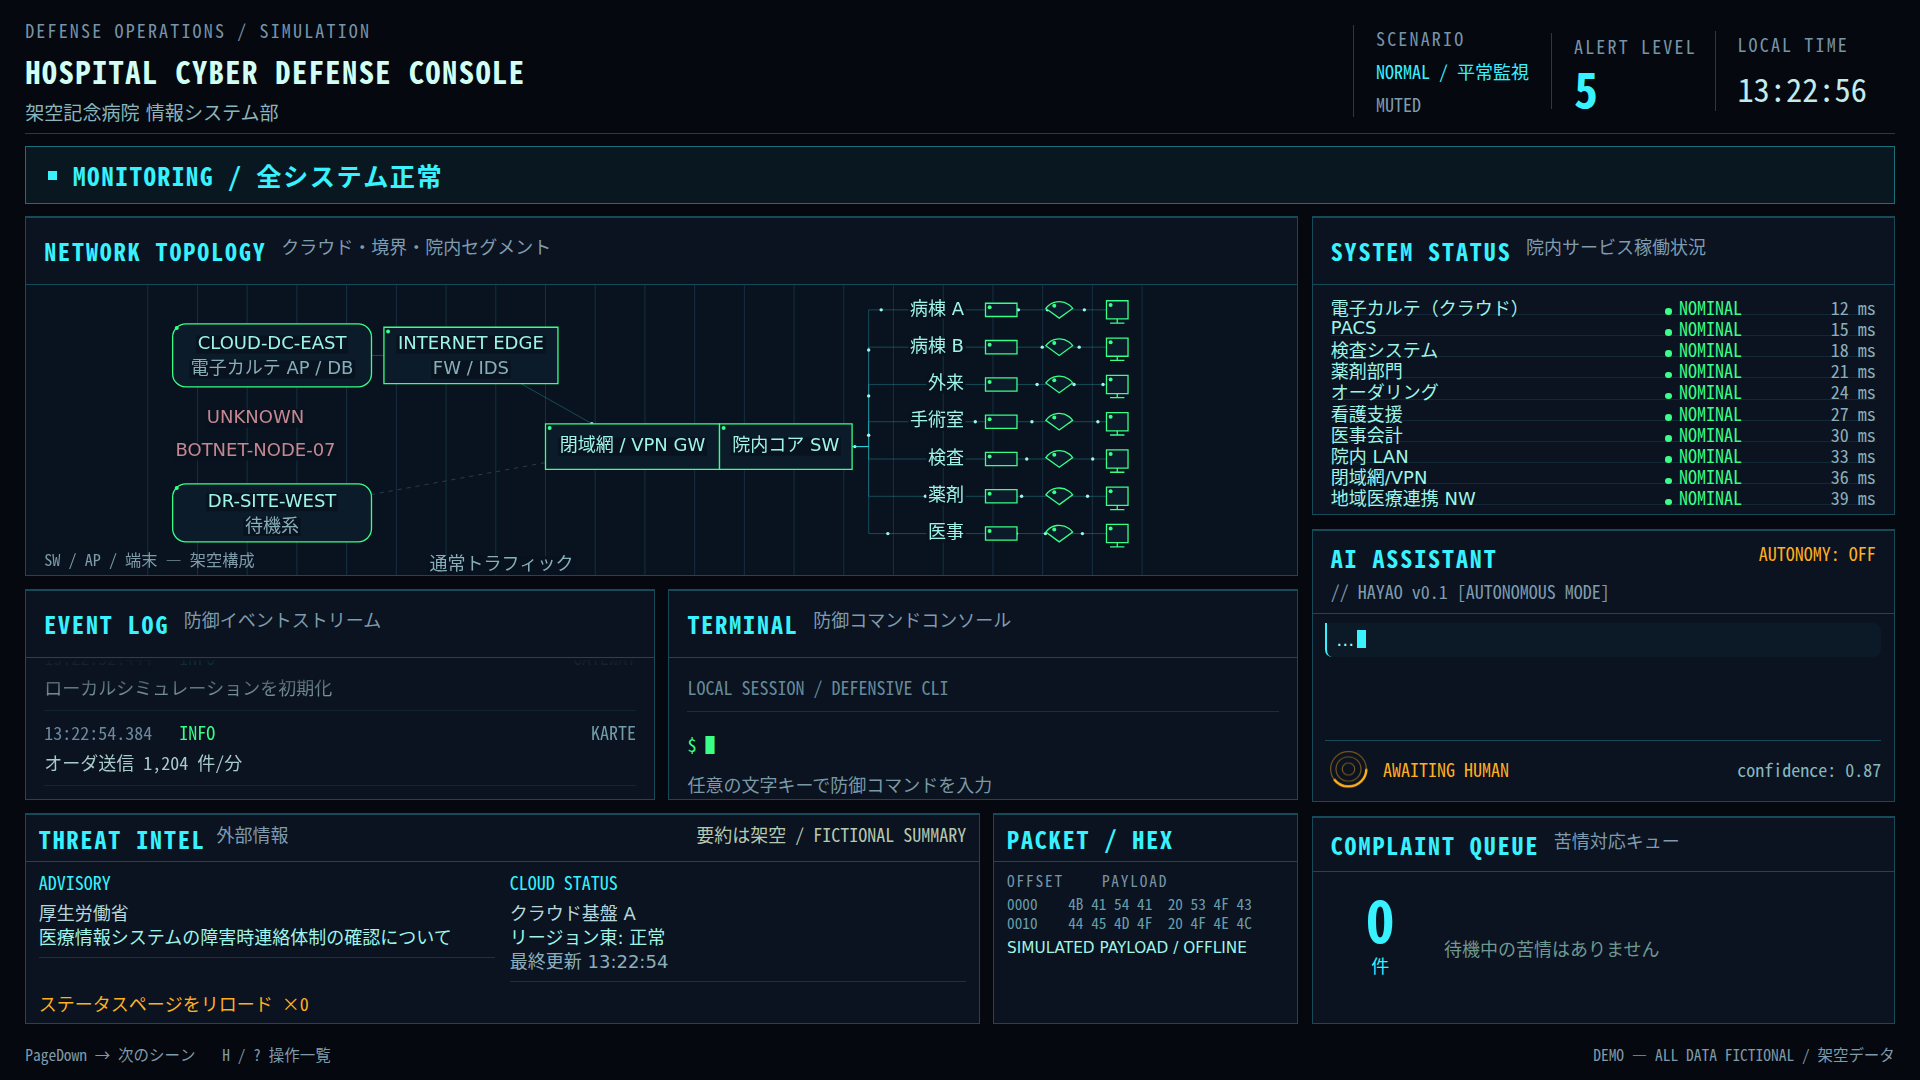
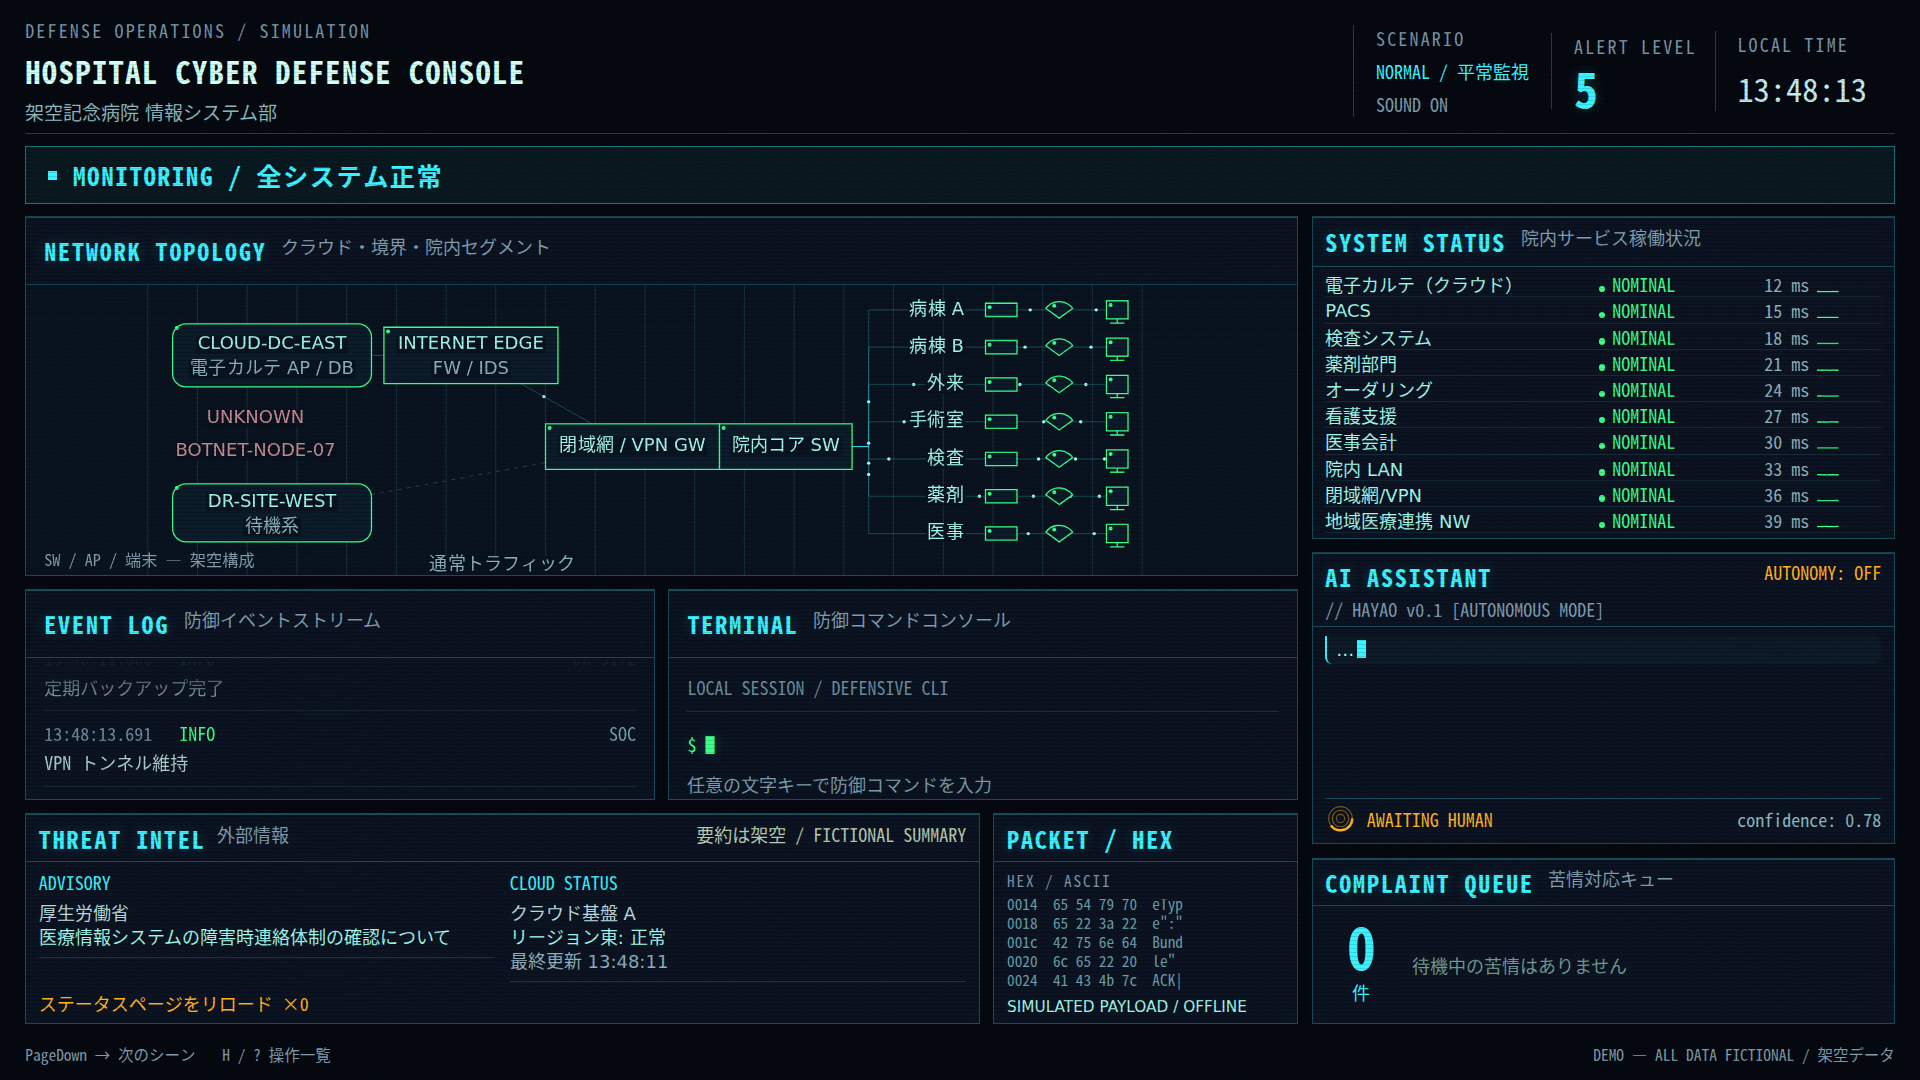
docs: document phase two controls and refresh screenshots

diff --git a/README.md b/README.md
@@ -2,7 +2,7 @@
 
 架空記念病院の「対処している感」を出す、LT 用サイバー防衛コンソール。実際の監視・攻撃・患者情報の処理は行いません。実行時は外部通信ゼロ、すべて架空データです。
 
-Phase 1 の MVP に AI アシスタント「ハヤオ」、NETWORK TOPOLOGY、THREAT INTEL を追加しています。仕様の正本は [SPEC.md](SPEC.md)、実装上の判断は [NOTES.md](NOTES.md) を参照してください。MIT ライセンス。
+Phase 2 の演出強化まで実装しています。AI アシスタント「ハヤオ」、構成図、外部情報フィードに加え、効果音・HEX・スパークライン・BACKSTAGE・自動再生が動作します。仕様の正本は [SPEC.md](SPEC.md)、実装上の判断は [NOTES.md](NOTES.md) を参照してください。MIT ライセンス。
 
 ## 起動
 
@@ -33,10 +33,10 @@ npm run typecheck && npm test && npm run build
 | 1〜6                 | NORMAL / DETECT / INCIDENT / COUNTER / RECOVERY / END  |
 | 印字キー・Space      | 防御側の架空コマンドを 3〜6 文字ずつ入力               |
 | Enter                | COUNTER では 8 秒間のターン演出、他は COMMAND ACCEPTED |
-| B                    | 静的 BACKSTAGE パネル                                  |
+| B                    | BACKSTAGE タイムラインと病院側の集計                   |
 | H / ?                | ヘルプ                                                 |
-| M                    | ミュート状態の表示切替（Phase 1 は音声なし）           |
-| A                    | 自動再生が Phase 2 対応予定である旨を表示              |
+| M                    | 効果音のミュート切替                                   |
+| A                    | 自動再生の ON / OFF（各シーン 20 秒）                  |
 | T                    | ハヤオが現在シーンの状況を 1 文で報告                  |
 | Ctrl+Shift+A         | ハヤオの AUTONOMY を ON / OFF                          |
 | R                    | BOOT へリセット                                        |
@@ -46,9 +46,9 @@ npm run typecheck && npm test && npm run build
 
 **COUNTER 中は印字キーがすべて TERMINAL 入力になります。** 機能操作は Ctrl+B / Ctrl+H / Ctrl+M / Ctrl+A / Ctrl+T / Ctrl+1〜6 等を使います。リセットは **Ctrl+Shift+R**、全画面は **Ctrl+Shift+F** です。AUTONOMY は全シーンで **Ctrl+Shift+A** です。矢印・PageUp / PageDown・Enter・Esc はそのまま使えます。クリッカーの「.」は印字入力です。
 
-ハヤオは用意した台本を 35 字/秒でタイプ表示し、シーンの変化や Enter 演出の各バー完了を実況します。最新 4 発話をスクロール表示し、保持するログは最大 20 件です。AUTONOMY OFF では「…」と `AWAITING HUMAN` を表示し、T を押しても沈黙します。ON に戻すと状況報告を再開し、BOOT リセットでも ON に戻ります。END で B を押すと、BACKSTAGE の横で復旧の裏側について告白します。LLM・外部通信・音声読み上げは使用しません。
+ハヤオは用意した台本を 35 字/秒でタイプ表示し、シーンの変化や Enter 演出の各バー完了を実況します。最新 4 発話を表示し、過去の発話は 2 行までの抜粋にして最新 3 件以上の表示領域を確保します（全文はホバーで表示）。保持するログは最大 20 件です。発話開始の短いビープは M のミュートと連動します。AUTONOMY OFF では「…」と `AWAITING HUMAN` を表示し、T を押しても沈黙します。ON に戻すと状況報告を再開し、BOOT リセットでも ON に戻ります。END で B を押すと、BACKSTAGE の横で復旧の裏側について告白します。LLM・外部通信・音声読み上げは使用しません。
 
-ターン演出中は入力を無視します。フラッシュとシェイクは最初の 300 ms の 1 回だけで、3 本のプログレスバー、境界シールドと DR 経路切替、ACCESS DENIED の後に RECOVERY へ移ります。復旧は約 8.5 秒かけて完了します。END へは手動で進めてください。BOOT は約 3.6 秒で起動ログを表示し、任意キーを待ちます。
+ターン演出中は入力を無視します。フラッシュとシェイクは最初の 300 ms の 1 回だけで、3 本のプログレスバー、境界シールドと DR 経路切替、ACCESS DENIED の後に RECOVERY へ移ります。復旧は約 8.5 秒かけて完了します。手動モードでは END へはキーで進めます。BOOT は約 3.6 秒で起動ログを表示し、任意キーを待ちます。
 
 誤リロード防止のため、ページを離れるとブラウザ標準の確認が出ます（ブラウザのジェスチャ要件に依存）。テスト時に不要なら `index.html?nobeforeunload` で開きます。非表示タブでは演出時計が停止し、戻った時点から再開します。
 
@@ -63,7 +63,13 @@ npm run typecheck && npm test && npm run build
 | 「ばばーんと復旧」                 | 自動で RECOVERY、復旧を待つ                  |
 | 「裏側では大変な作業が続いている」 | PageDown → END。B で紹介パネルとハヤオの告白 |
 
-音声、医療ネタの動的 HEX、スパークライン、詳細な BACKSTAGE タイムライン、自動再生、全パネル共通の seed クエリ、走査線等の仕上げは Phase 2 の対象で、この版には含めません（ハヤオの confidence のみ `?seed=123` で固定できます）。Phase 3 の包括的 E2E スイート・CI・公開設定も対象外です。
+効果音は小音量 ON で始まり、最初のキー入力で AudioContext を生成・resume します。キークリック、警告、ターン、復旧チャイム、ハヤオの発話ビープを Web Audio で合成します。M は再生中の音も消音します。音声ファイル・音声読み上げ・外部 API は使いません。
+
+A で自動再生を開始すると、各シーン 20 秒で進みます。COUNTER は自動でコマンドを入力してから Enter 演出（追加 8 秒）を実行し、END の 20 秒後に NORMAL へ戻って周回します。A で手動に戻り、R は BOOT へ戻して自動再生も解除します。自動再生中も手動ジャンプでき、移動先で 20 秒を数え直します。BOOT は任意キーで抜けてから A を押してください。BACKSTAGE は B で開きます。
+
+URL に `?seed=123` を付けると、タイピング・粒子と火花・confidence・HEX・スパークラインの乱数を固定できます。同じ入力と演出時間で再現でき、実時計は通常どおり進みます。無効な値は既定シードへ戻します。走査線・ノイズ・グローは静止効果で、カーソルは 1 Hz、全画面フラッシュは Enter の 1 回だけです。
+
+Phase 3 の包括的 E2E スイート・CI・公開設定は対象外です。
 
 ## 文言と構成図の編集
 
@@ -74,9 +80,10 @@ npm run typecheck && npm test && npm run build
 | `messages.ts`   | 共通ラベル、起動ログ、定常イベント                     |
 | `scenes.ts`     | シーン名・バナー、ターン演出のタイミング               |
 | `systems.ts`    | システム名・状態名                                     |
+| `packets.ts`    | 患者情報を含まない医療プロトコルの ASCII 断片          |
 | `commands.ts`   | 防御 CLI 台本と擬似出力（各 2〜5 行）                  |
 | `complaints.ts` | 苦情の種類と件数                                       |
-| `backstage.ts`  | BACKSTAGE 文言（リロード件数はフィードと共有）         |
+| `backstage.ts`  | BACKSTAGE 文言・固定タイムライン（集計は共有状態）     |
 | `assistant.ts`  | ハヤオの発話・表示文言（オチは `backstageConfession`） |
 | `help.ts`       | キー一覧と衝突ルール                                   |
 | `topology.ts`   | ノード・リンクの固定座標、名称、攻撃経路               |
@@ -86,29 +93,30 @@ npm run typecheck && npm test && npm run build
 
 NETWORK TOPOLOGY は固定座標の幾何学図形でクラウド・境界・院内の各セグメントを描きます。ノードのランプは SYSTEM STATUS と同じ判定を使い、Enter の隔離完了でシールド、切替完了で DR 経路が点灯します。1280×720 でもラベルは 13px 以上です。
 
-THREAT INTEL は HEX 帯と同居し、注意喚起とステータスページ風のフィードを各 30 件まで保持します。出典ラベルのみ `JPCERT/CC` / `IPA` / `厚生労働省` / `NISC` を使用し、本文は架空要約です。実在の日付・文書番号・URL・脆弱性識別子を追加しないでください。クラウドは架空の「クラウド基盤 A/B」のみです。INCIDENT 中は 2 秒ごとにリロード件数、5 秒ごとに最終更新が進み、BACKSTAGE も同じリロード件数を表示します。NORMAL または BOOT に戻ると件数・フィードを初期化します。
+THREAT INTEL は HEX 帯と同居し、注意喚起とステータスページ風のフィードを各 30 件まで保持します。出典ラベルのみ `JPCERT/CC` / `IPA` / `厚生労働省` / `NISC` を使用し、本文は架空要約です。実在の日付・文書番号・URL・脆弱性識別子を追加しないでください。クラウドは架空の「クラウド基盤 A/B」のみです。INCIDENT 中は `intel.ts` の `reloadInterval`（510 ms）ごとにリロード件数、5 秒ごとに最終更新が進みます。30 秒で約 ×58 となり、BACKSTAGE も同じ件数を表示します。苦情対応件数は復旧で解消したキュー件数と共有し、復旧完了時に ×29 となります。NORMAL または BOOT に戻ると件数・フィードを初期化します。
 
 ## スクリーンショットと確認
 
-任意の Playwright 撮影スクリプトを同梱しています。`npm run e2e` はビルド済み HTML を **file://、オフライン**で開き、全シーンを撮影します。シーン遷移、連打中の入力ロック、復旧、クリッカー、F5、720p のパネル境界と構成図ラベルの重なり、外部情報の更新・リロード件数共有、ハヤオの状況報告・沈黙・実況・告白、外部リクエスト 0 件、コンソールエラー 0 件も簡易確認します。約 70 秒かかります。
+任意の Playwright 撮影スクリプトを同梱しています。`npm run e2e` はビルド済み HTML を **file://、オフライン**で開き、全シーンを撮影します。シーン遷移、連打中の入力ロック、復旧、クリッカー、F5、720p のパネル境界と構成図ラベルの重なり、外部情報の更新・リロード件数共有、ハヤオの状況報告・沈黙・実況・告白、外部リクエスト 0 件、コンソールエラー 0 件も簡易確認します。約 70 秒かかります。`npm run e2e:phase2` は追加で実際の AudioContext の生成・resume・ミュート、ALERT 推移、×58 / ×29、最新 3 発話以上の表示、全乱数の seed 再現性、自動再生の周回を検証し、仮想時間 10 分の DOM・ヒープ上限を確認します。
 
 ```sh
 npx playwright install chromium
 npm run build
 npm run e2e
+npm run e2e:phase2
 ```
 
 既存の Chromium を使用する場合は `PLAYWRIGHT_CHROMIUM_EXECUTABLE_PATH=/path/to/chrome npm run e2e`。制限付き Linux 環境で必要な場合のみ `PLAYWRIGHT_NO_SANDBOX=1` を追加します。Linux のライブラリが不足する場合は通常の開発環境で `npx playwright install --with-deps chromium` を実行してください。
 
-出力先は `docs/screenshots/01-boot.png` 〜 `07-end.png`（1920×1080）、演出中・ヘルプ・静的 BACKSTAGE・720p・AUTONOMY OFF・720p の告白・障害中・DR 切替中の追加画像です。Playwright が使えなければ、ブラウザを 1920×1080、ズーム 100% にし、BOOT および 1〜6 各シーンを OS のスクリーンショット機能で保存してください。COUNTER からのジャンプは Ctrl+数字です。
+出力先は `docs/screenshots/01-boot.png` 〜 `07-end.png`（1920×1080）、演出中・ヘルプ・BACKSTAGE・720p・AUTONOMY OFF・720p の告白・障害中・DR 切替中の追加画像です。Phase 2 検証は ×58 / ×29 の BACKSTAGE を `15-phase2-backstage-{1920,1280}.png` に保存します。Playwright が使えなければ、ブラウザを 1920×1080、ズーム 100% にし、BOOT および 1〜6 各シーンを OS のスクリーンショット機能で保存してください。COUNTER からのジャンプは Ctrl+数字です。
 
 ## トラブル時
 
 - キーが効かない: 画面をクリックしてフォーカスを戻し、IME を英数にします。COUNTER では機能キーに Ctrl が必要です。演出中は約 8 秒待ちます。
 - 全画面にならない: F（COUNTER は Ctrl+Shift+F）を使用します。ブラウザ側で拒否される場合はブラウザ標準の全画面操作を使います。
-- 音が出ない: Phase 1 は視覚演出のみで、M は状態表示の切替です。
+- 音が出ない: 最初に画面へフォーカスしてキーを押し、SOUND ON 表示を確認します。M でミュートを切り替え、OS・ブラウザ・出力機器の音量も確認してください。ブラウザが音声を拒否した場合も画面は動作し、次のキー入力で resume を再試行します。非表示タブでは音も消音します。
 - レイアウト・日本語が崩れる: 100% ズーム、16:9 の解像度、日本語システムフォントを確認します。
 - ビルド済み HTML が動かない: コピーしたものが `dist/index.html` であることを確認し、現行 Chrome / Edge で開きます。開発用のルート `index.html` は直接開けません。
 - インストールのキャッシュエラー: `npm ci --cache /tmp/katakata-npm` のように書き込み可能なキャッシュを指定します。
 
-ログは最大 200 行、ターミナル履歴は 100 行、攻撃粒子は 80 個、火花は 96 個（通常粒子は各リンク 2 個）で打ち切ります。描画ループは 1 本です。自動再生での 10 分評価は Phase 2 の自動再生実装後の対象ですが、長時間の手動滞在でもデータを保持し続けない設計です。
+ログは最大 200 行、ターミナル履歴は 100 行、攻撃粒子は 80 個、火花は 96 個（通常粒子は各リンク 2 個）で打ち切ります。HEX は最大 24 行、スパークラインは各 36 点です。描画ループは 1 本です。仮想時間 10 分の自動再生でデータ保持の上限を検証していますが、会場の実機での音量・実時間のフレームレートは事前リハーサルで確認してください。

diff --git a/NOTES.md b/NOTES.md
@@ -34,3 +34,4 @@
 - Phase 2: HEX はプロトコル構造の ASCII 断片だけを 4 byte/行で最大 24 行描き、患者セグメントや識別子を含めず、スパークラインは共有システム状態から 500 ms ごとに最大 36 点を保持する。
 - Phase 2: 右列は STATUS/ASSISTANT/COMPLAINTS を 1.24:1.12:0.64 に配分し、過去の発話は 2 行までの抜粋（全文はホバー）として最新 3 件と現在の発話を優先する。
 - Phase 2: 走査線・ノイズは静止 CSS テクスチャ、グローは固定影とし、追加の明滅を作らず既存カーソルの 1 Hz・火花の 600 ms 間隔・Enter 1 回のフラッシュを維持する。
+- Phase 2: 長時間の保持上限は Chromium の固定 16 ms rAF で仮想 10 分を全フレーム再生して検証し（ヒープ約 2.53〜2.59 MiB、ログ最大 200 行、外部通信・ブラウザエラー 0 件）、実機での聴感と実時間のフレームレートは未検証として明記する。
